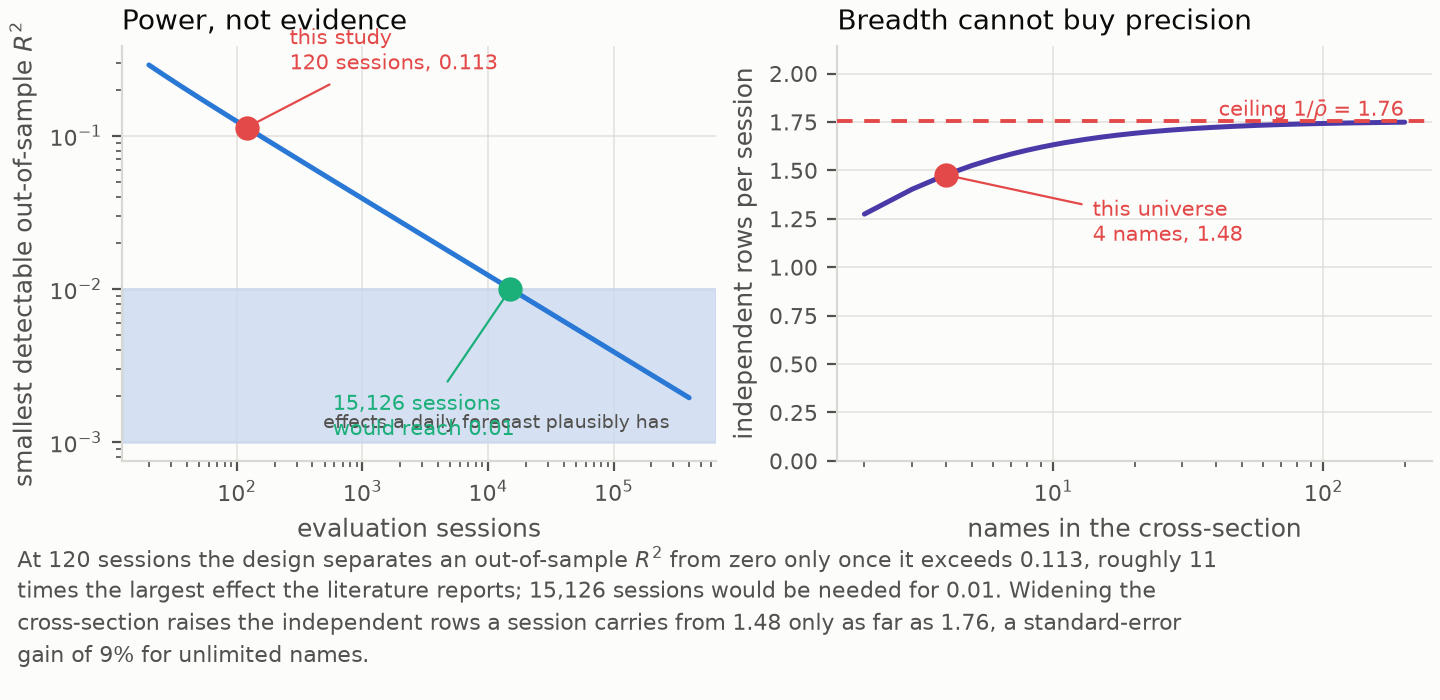
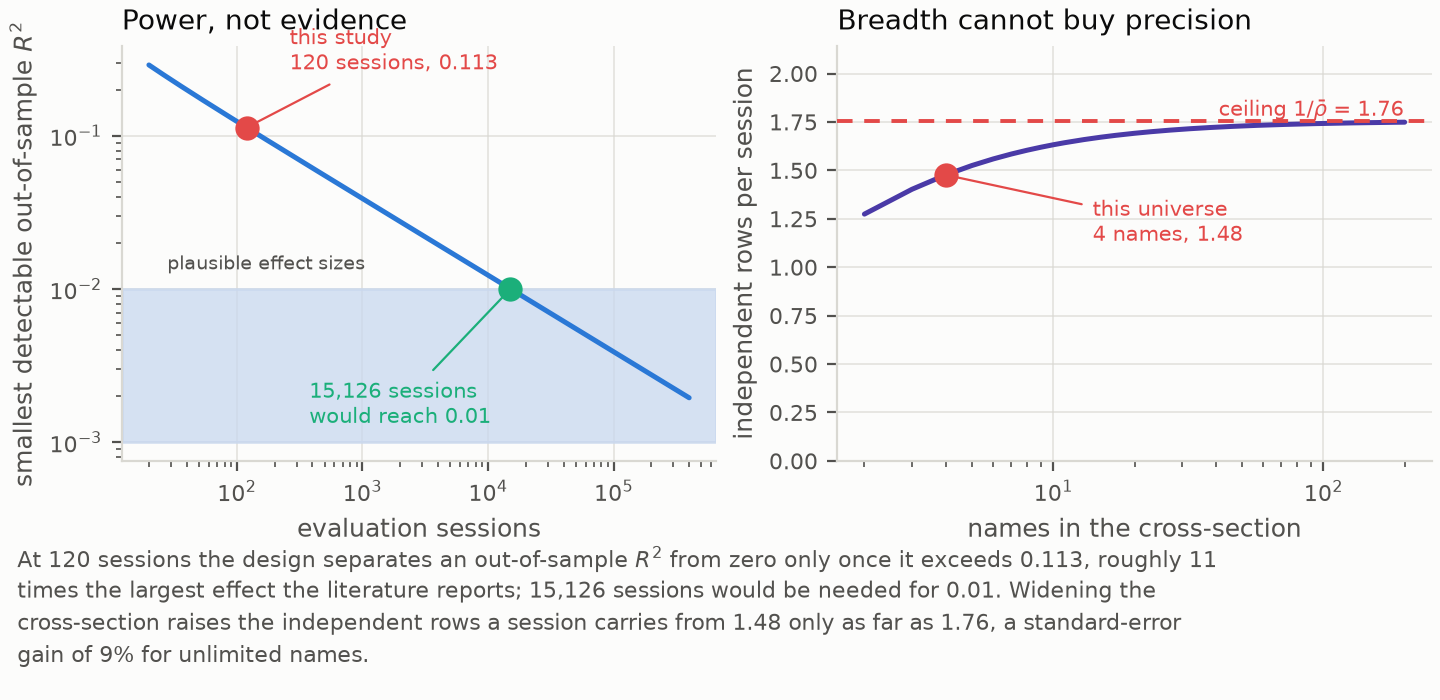
fix(figures): stop the plausible-effect band label from crossing the curve
Read off the rendered page rather than the figure: the band annotation ran
right-aligned from the far edge of the axis and collided with both the sample-size
annotation and the detectability curve.

Changed region(s): [[0.2188, 0.54, 0.4688, 0.63], [0.125, 0.36, 0.25, 0.39], [0.3125, 0.45, 0.3438, 0.51]]

diff --git a/src/bist_predict/figures/detectability.py b/src/bist_predict/figures/detectability.py
@@ -68,12 +68,12 @@ def plot_detectable_effect(artifacts: RunArtifacts, directory: Path) -> dict[str
             zorder=1,
         )
         left.text(
-            grid.max() * 0.7,
-            _PLAUSIBLE_R_SQUARED[0] * 1.15,
-            "effects a daily forecast plausibly has",
+            grid.min() * 1.4,
+            _PLAUSIBLE_R_SQUARED[1] * 1.25,
+            "plausible effect sizes",
             fontsize=7.0,
             color=COLOURS["muted"],
-            ha="right",
+            ha="left",
             va="bottom",
         )
         left.plot(grid, detectable, color=COLOURS["model"], linewidth=1.8, zorder=3)
@@ -90,7 +90,7 @@ def plot_detectable_effect(artifacts: RunArtifacts, directory: Path) -> dict[str
         left.annotate(
             f"{required:,} sessions\nwould reach {reference:.2f}",
             xy=(required, reference),
-            xytext=(required / 26.0, reference / 9.0),
+            xytext=(required / 40.0, reference / 7.5),
             fontsize=7.5,
             color=COLOURS["reference"],
             arrowprops={"arrowstyle": "-", "color": COLOURS["reference"], "linewidth": 0.8},
